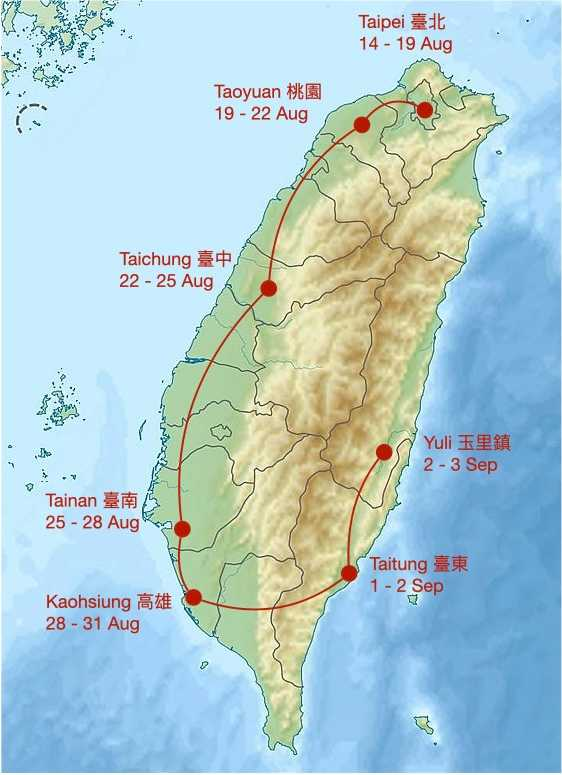
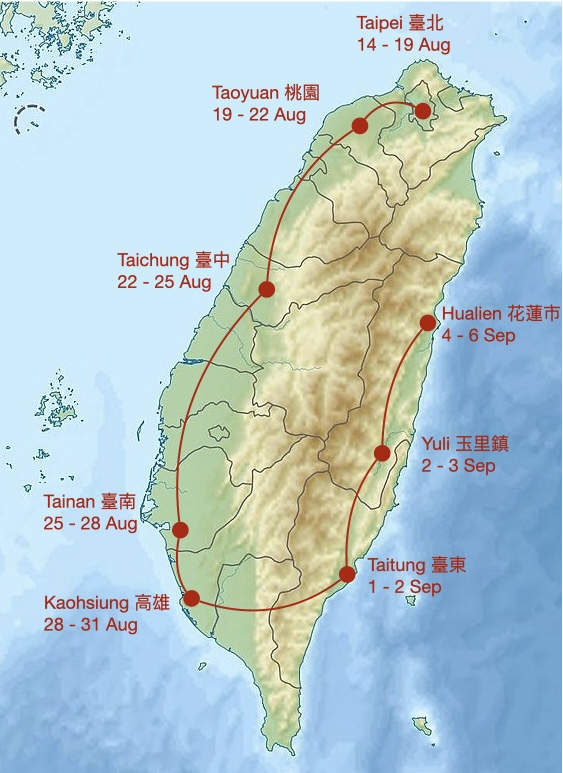
added Yuli

diff --git a/index.html b/index.html
@@ -488,7 +488,35 @@
       <img src="assets/media/Taitung/PXL_20240902_080940686.jpg" width="4032" height="3024" />
     </details>
 
-    <br> 📍 Currently in Yuli 玉里鎮. <br/>
+    <details>
+      <summary>
+        Yuli 玉里鎮: <i>2 - 3 Sep 2024</i>
+      </summary>
+      <img src="assets/media/Yuli/PXL_20240902_085443165.jpg" width="4032" height="3024" />
+      <img src="assets/media/Yuli/PXL_20240902_091650729.jpg" width="4032" height="3024" />
+      <img src="assets/media/Yuli/PXL_20240902_091840862.jpg" width="4032" height="3024" />
+      <img src="assets/media/Yuli/PXL_20240902_092053909.jpg" width="4032" height="2346" />
+      <img src="assets/media/Yuli/PXL_20240902_092512076.jpg" width="4032" height="3024" />
+      <img src="assets/media/Yuli/PXL_20240902_095712803.jpg" width="3024" height="2332" />
+      <img src="assets/media/Yuli/PXL_20240903_041753511.jpg" width="3024" height="4032" />
+      <img src="assets/media/Yuli/PXL_20240903_041826441.jpg" width="3024" height="4032" />
+      <img src="assets/media/Yuli/PXL_20240903_042528586.jpg" width="3024" height="4032" />
+      <img src="assets/media/Yuli/PXL_20240903_052456602.jpg" width="2464" height="3280" />
+      <img src="assets/media/Yuli/PXL_20240903_055546808.jpg" width="4032" height="3024" />
+      <img src="assets/media/Yuli/PXL_20240903_064604699.jpg" width="3024" height="4032" />
+      <img src="assets/media/Yuli/PXL_20240903_071528875.jpg" width="2693" height="3411" />
+      <img src="assets/media/Yuli/PXL_20240903_072050042.jpg" width="3024" height="4032" />
+      <img src="assets/media/Yuli/PXL_20240903_072641845.jpg" width="3024" height="4032" />
+      <img src="assets/media/Yuli/PXL_20240903_072729441.jpg" width="3024" height="4032" />
+      <img src="assets/media/Yuli/PXL_20240903_073105185.jpg" width="3024" height="4032" />
+      <img src="assets/media/Yuli/PXL_20240903_081252088.jpg" width="4032" height="3024" />
+      <img src="assets/media/Yuli/PXL_20240903_085428816.jpg" width="4032" height="3024" />
+      <img src="assets/media/Yuli/PXL_20240903_085713731.jpg" width="4032" height="3024" />
+      <img src="assets/media/Yuli/PXL_20240903_092606135.jpg" width="4032" height="3024" />
+      <img src="assets/media/Yuli/PXL_20240903_095505025.jpg" width="4032" height="3024" />
+    </details>
+    
+    <br> 📍 Currently in Hualien 花蓮市. <br/>
 
     <br> 如果你听得懂中文，可以去看我的YouTube频道：
     <a href="https://www.youtube.com/@briceinsingapore">here</a>
